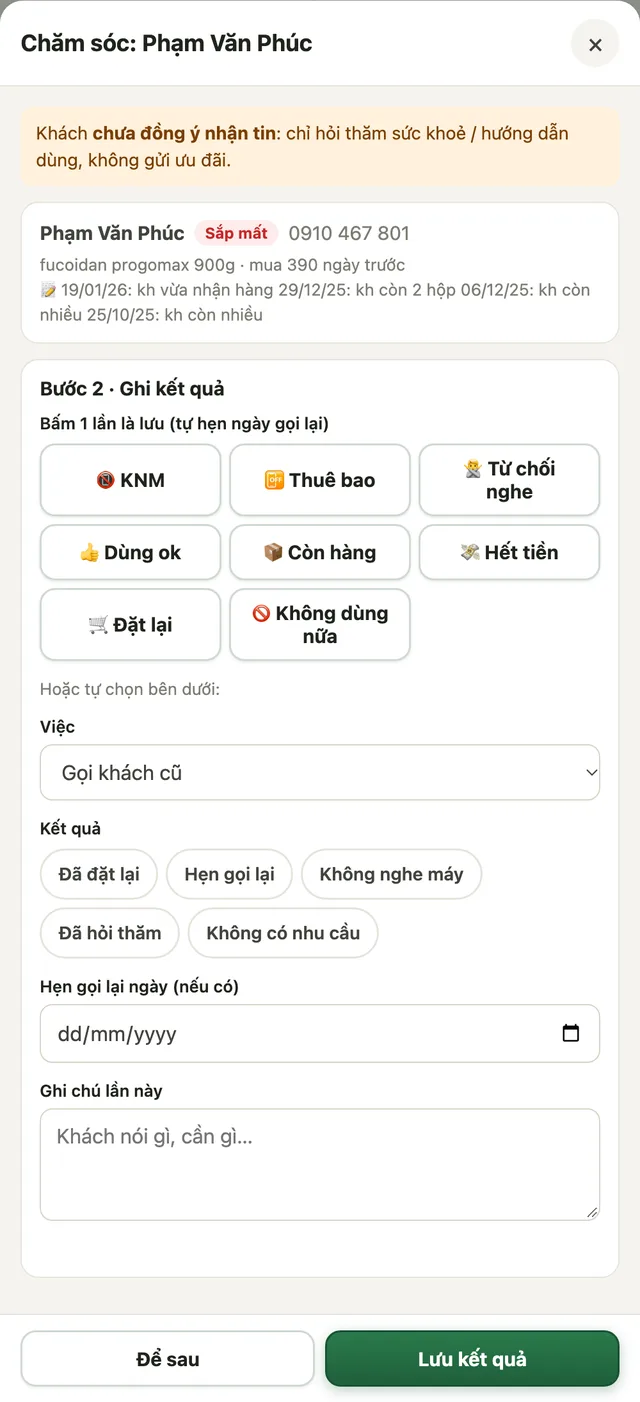
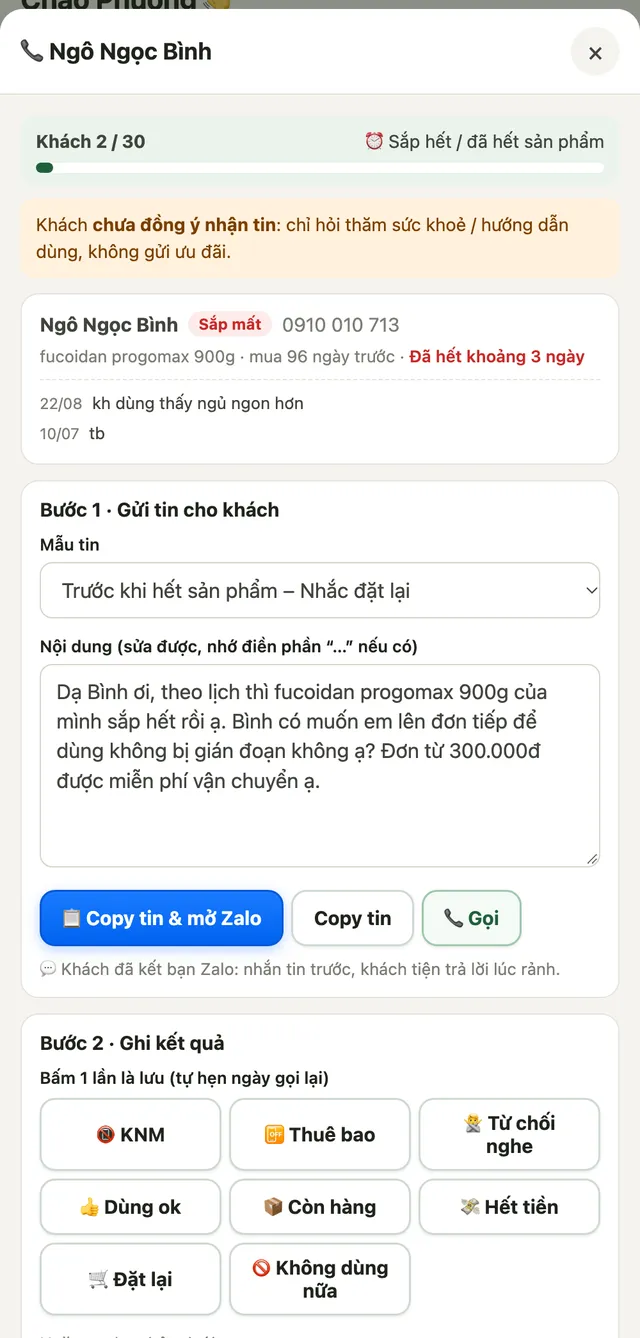
CRM tab Hôm nay gọn: thanh mục tiêu, gọi lần lượt từng khách, nhóm thu gọn + dòng gọn, tối đa 30 khách/ngày

diff --git a/crm/app.js b/crm/app.js
@@ -12,7 +12,8 @@
     runout: { icon: '⏰', title: 'Sắp hết / đã hết sản phẩm', tip: 'nhắc đặt lại, đơn từ 300K được freeship', tpl: 'hết' },
     d14: { icon: '💬', title: 'Xin cảm nhận', tip: '14 ngày sau khi nhận hàng', tpl: '14' },
     d30: { icon: '🌿', title: 'Giới thiệu sản phẩm phù hợp', tip: '30 ngày sau khi nhận hàng', tpl: '30' },
-    winback: { icon: '💌', title: 'Mời quay lại', tip: '60 ngày sau khi nhận hàng, chưa mua lại', tpl: '60' }
+    winback: { icon: '💌', title: 'Mời quay lại', tip: '60 ngày sau khi nhận hàng, chưa mua lại', tpl: '60' },
+    old: { icon: '🔁', title: 'Khách cũ lâu chưa gọi', tip: 'quá 30 ngày chưa phản hồi, khách chi nhiều lên trước', tpl: '60' }
   };
   var TASK_ORDER = ['callback', 'd1', 'runout', 'd14', 'd30', 'winback'];
   var TASK_LOG = { callback: 'Gọi lại theo hẹn', d1: 'Hỏi nhận hàng', runout: 'Nhắc đặt lại', d14: 'Xin cảm nhận', d30: 'Giới thiệu sản phẩm', winback: 'Mời quay lại', old: 'Gọi khách cũ', other: 'Chăm sóc' };
@@ -364,7 +365,7 @@
   }
   function navBadges() {
     var fb = $('#fbBtn'); if (fb) { var fd = $('.dot', fb); if (fd) fd.remove(); if (lvl() >= 2 && S.d.fbNew) fb.insertAdjacentHTML('beforeend', '<span class="dot">' + S.d.fbNew + '</span>'); }
-    var ld = leadsDue().length, n = { 'hom-nay': newOrders().length + tasksShown().length + ld, 'don-hang': newOrders().length, 'tiem-nang': ld };
+    var ld = leadsDue().length, n = { 'hom-nay': newOrders().length + dayQueue().list.length + ld, 'don-hang': newOrders().length, 'tiem-nang': ld };
     $$('.nav a').forEach(function (a) {
       var v = a.getAttribute('data-v'), d = $('.dot', a); if (d) d.remove();
       if (n[v]) a.insertAdjacentHTML('beforeend', '<span class="dot">' + (n[v] > 99 ? '99+' : n[v]) + '</span>');
@@ -469,45 +470,41 @@
     var t0 = today(), doneToday = S.d.log.filter(function (l) { return l.time >= t0 && l.what !== 'Cài đặt' && l.what !== 'Nhân sự'; }).sort(function (a, b) { return b.time - a.time; });
     var h = '<div class="page-head"><h1>Chào ' + esc(S.user.name) + ' 👋</h1><div class="grow"></div>' +
       (lvl() >= 2 ? '<label class="switch"><input type="checkbox" id="mine"' + (S.mine ? ' checked' : '') + '> Chỉ khách của tôi</label>' : '') + '</div>';
-    h += '<div class="kpis">' +
-      kpi('Đơn mới cần xác nhận', no.length, no.length ? 'warn' : 'good', '#don-hang') +
-      kpi('Khách cần chăm sóc', ts.length + Math.min(OLD_PER_DAY, od.length), ts.length + od.length ? 'warn' : 'good') +
-      kpi('Tiềm năng cần liên hệ', ld.length, ld.length ? 'bad' : 'good', '#tiem-nang') +
-      kpi('Đã làm hôm nay', doneToday.length, 'good') + myGoalKpi();
+    var q = dayQueue(), total = q.list.length + q.done, pc = total ? Math.round(q.done * 100 / total) : 100;
+    h += '<section class="hero"><div class="hero-t"><b>' + (q.list.length ? 'Hôm nay: ' + q.list.length + ' khách cần chăm sóc' : '🎉 Đã xong việc chăm sóc hôm nay') + '</b><span>đã xong ' + q.done + '</span></div>' +
+      '<div class="bar"><i style="width:' + pc + '%"></i></div>' +
+      (q.list.length ? '<button class="btn pri lg block" data-flow>▶ Bắt đầu gọi lần lượt</button>' : '') +
+      (q.rest ? '<p class="small muted" style="margin:8px 0 0">Còn ' + q.rest + ' khách để các ngày sau (tối đa ' + dayLimit() + ' khách/ngày, đổi ở <a href="#cai-dat">Cài đặt</a>).</p>' : '') + '</section>';
+    h += '<div class="minis">' + mini('🧾 Đơn mới', no.length, '#don-hang', no.length ? 'warn' : '') + mini('🙋 Tiềm năng', ld.length, '#tiem-nang', ld.length ? 'bad' : '') + mini('✅ Đã làm', doneToday.length, '', '') + miniGoal() + '</div>';
     if (lvl() >= 2) {
       var m = monthStats();
-      h += kpi('Doanh thu tháng ' + m.month, moneyShort(m.revenue), '', '', m.orders + ' đơn · ' + (m.prev ? (m.revenue >= m.prev ? '▲ ' : '▼ ') + 'tháng trước ' + moneyShort(m.prev) : 'chưa có tháng trước')) +
-        kpi('Khách mới tháng ' + m.month, m.newCus, '', '', m.returning + ' khách mua lại');
+      h += '<div class="kpis">' + kpi('Doanh thu tháng ' + m.month, moneyShort(m.revenue), '', '', m.orders + ' đơn · ' + (m.prev ? (m.revenue >= m.prev ? '▲ ' : '▼ ') + 'tháng trước ' + moneyShort(m.prev) : 'chưa có tháng trước')) +
+        kpi('Khách mới tháng ' + m.month, m.newCus, '', '', m.returning + ' khách mua lại') + '</div>';
     }
-    h += '</div>';
 
-    h += legend(null);
     if (lvl() >= 2) h += waitingBlock();
-    h += '<section class="section"><div class="section-h"><h2>1⃣ Đơn mới – gọi khách xác nhận</h2>' + (no.length ? '<span class="count">' + no.length + '</span>' : '') + '<span class="tip">gọi xong bấm “Xác nhận”</span></div>' +
-      (no.length ? '<div class="list cols">' + no.map(function (o) { return orderCard(o, true); }).join('') + '</div>' : empty('Không có đơn mới 🎉')) +
+    if (no.length || up.length) h += '<section class="section"><div class="section-h"><h2>1⃣ Đơn mới – gọi khách xác nhận</h2>' + (no.length ? '<span class="count">' + no.length + '</span>' : '') + '<span class="tip">gọi xong bấm “Xác nhận”</span></div>' +
+      (no.length ? '<div class="list cols">' + no.map(function (o) { return orderCard(o, true); }).join('') + '</div>' : '') +
       (up.length ? '<div class="section-h" style="margin-top:12px"><h3>💳 Chuyển khoản chưa nhận tiền</h3><span class="count">' + up.length + '</span><span class="tip">xem tài khoản VCB, tiền về thì mở đơn bấm “Xác nhận đã nhận tiền”</span></div>' +
         '<div class="list cols">' + up.map(function (o) { return orderCard(o, false); }).join('') + '</div>' : '') + '</section>';
 
-    h += '<section class="section"><div class="section-h"><h2>2⃣ Chăm sóc khách</h2>' + (ts.length ? '<span class="count">' + ts.length + '</span>' : '') + '<span class="tip">bấm “Chăm sóc” → gửi tin mẫu → chọn kết quả</span></div>';
-    if (!ts.length && !od.length) h += empty(lvl() >= 2 && S.mine && tasksAll().length ? 'Khách của bạn đã chăm sóc xong. Tắt “Chỉ khách của tôi” để xem các khách khác.' : 'Hôm nay không có khách đến lịch chăm sóc 🎉');
-    TASK_ORDER.forEach(function (k) {
-      var arr = ts.filter(function (c) { return c.task.type === k; }); if (!arr.length) return;
-      arr.sort(function (a, b) { return (b.task.late || 0) - (a.task.late || 0) || b.spent - a.spent; });
-      h += '<div class="section-h" style="margin-top:12px"><h3>' + TASKS[k].icon + ' ' + TASKS[k].title + '</h3><span class="count">' + arr.length + '</span><span class="tip">' + TASKS[k].tip + '</span></div>' +
-        '<div class="list cols">' + arr.map(function (c) { return custCard(c, true); }).join('') + '</div>';
+    h += '<section class="section"><div class="section-h"><h2>2⃣ Chăm sóc khách</h2>' + (q.list.length ? '<span class="count">' + q.list.length + '</span>' : '') + '<span class="tip">bấm vào nhóm để mở danh sách</span></div>';
+    if (!q.list.length) h += empty(lvl() >= 2 && S.mine && tasksAll().length ? 'Khách của bạn đã chăm sóc xong. Tắt “Chỉ khách của tôi” để xem các khách khác.' : 'Hôm nay không còn khách cần chăm sóc 🎉');
+    GROUP_ORDER.forEach(function (k) {
+      var arr = q.list.filter(function (c) { return taskKey(c) === k; }); if (!arr.length) return;
+      var late = arr.filter(function (c) { return c.task && c.task.late && k !== 'callback' && k !== 'runout'; }).length;
+      h += '<details class="grp" data-grp="' + k + '"' + (S.f.gopen && S.f.gopen[k] ? ' open' : '') + '><summary><span class="g-t">' + TASKS[k].icon + ' ' + TASKS[k].title + '</span><span class="count">' + arr.length + '</span>' + (late ? '<span class="g-late">⏳ ' + late + ' trễ</span>' : '') + '<span class="g-tip">' + TASKS[k].tip + '</span></summary>' +
+        '<div class="rows">' + arr.map(rowCard).join('') + '</div></details>';
     });
-    if (od.length) h += '<div class="section-h" style="margin-top:12px"><h3>🔁 Khách cũ lâu chưa gọi</h3><span class="count">' + Math.min(OLD_PER_DAY, od.length) + '</span><span class="tip">quá ' + OLD_DAYS + ' ngày chưa phản hồi, ưu tiên khách chi nhiều · còn ' + od.length + ' khách</span></div>' +
-      '<div class="list cols">' + od.slice(0, OLD_PER_DAY).map(function (c) { return custCard(c, true); }).join('') + '</div>' +
-      (od.length > OLD_PER_DAY ? '<p class="small muted">Gọi xong ' + OLD_PER_DAY + ' khách này, danh sách tự đưa lên khách tiếp theo. Xem hết ở <a href="#khach-hang" data-myold>Khách hàng → quá 30 ngày</a>.</p>' : '');
     h += '</section>';
 
     h += '<section class="section"><div class="section-h"><h2>3⃣ Khách tiềm năng cần liên hệ</h2>' + (ld.length ? '<span class="count">' + ld.length + '</span>' : '') + '<span class="tip">người hỏi mua nhưng chưa mua</span></div>' +
-      (ld.length ? '<div class="list cols">' + ld.map(leadCard).join('') + '</div>' : empty('Không có khách tiềm năng cần liên hệ 🎉')) +
+      (ld.length ? '<details class="grp" data-grp="leads"' + (S.f.gopen && S.f.gopen.leads ? ' open' : '') + '><summary><span class="g-t">🙋 Người hỏi cần liên hệ</span><span class="count">' + ld.length + '</span><span class="g-tip">mới hỏi, đến hẹn hoặc 3 ngày chưa liên hệ</span></summary><div class="list cols" style="padding:10px">' + ld.map(leadCard).join('') + '</div></details>' : empty('Không có khách tiềm năng cần liên hệ 🎉')) +
       '<button class="btn" data-newlead style="margin-top:10px">＋ Thêm khách tiềm năng</button></section>';
 
     if (isPoolStaff()) h += poolBlock();
-    if (doneToday.length) h += '<section class="section"><div class="section-h"><h2>✅ Đã làm hôm nay</h2><span class="count">' + doneToday.length + '</span></div><div class="box timeline">' +
-      doneToday.slice(0, 40).map(logItem).join('') + '</div></section>';
+    if (doneToday.length) h += '<section class="section"><details class="grp" data-grp="done"' + (S.f.gopen && S.f.gopen.done ? ' open' : '') + '><summary><span class="g-t">✅ Đã làm hôm nay</span><span class="count">' + doneToday.length + '</span></summary><div class="timeline" style="padding:12px">' +
+      doneToday.slice(0, 40).map(logItem).join('') + '</div></details></section>';
     return h;
   }
   /** Quản lý: khách / tiềm năng chưa có người phụ trách → giao ngay tại chỗ. */
@@ -530,6 +527,40 @@
     if (!cs.length && !ls.length) return '';
     return '<section class="section"><div class="section-h"><h2>🧺 Kho chung – chưa ai nhận</h2><span class="count">' + (cs.length + ls.length) + '</span><span class="tip">bấm “Nhận khách” để thành khách của bạn</span></div><div class="list cols">' +
       cs.slice(0, 10).map(function (c) { return custCard(c, false); }).join('') + ls.slice(0, 10).map(leadCard).join('') + '</div></section>';
+  }
+  /* ---------- danh sách việc trong ngày: xếp theo mức quan trọng, giới hạn số khách/ngày (phần còn lại để mai, có “trễ N ngày”) */
+  var DAY_LIMIT_DEF = 30, GROUP_ORDER = ['callback', 'd1', 'runout', 'd14', 'd30', 'winback', 'old'];
+  var PRIO = { callback: 0, d1: 1, runout: 2, d14: 4, d30: 5, winback: 6, old: 7 };
+  function dayLimit() { var n = parseInt(store('crm_daylimit') || '', 10); return n > 0 ? n : DAY_LIMIT_DEF; }
+  function taskKey(c) { return c.task ? c.task.type : 'old'; }
+  function prioOf(c) { var k = taskKey(c); return c.task && c.task.late && k !== 'callback' && k !== 'runout' ? 3 : PRIO[k]; }
+  function isCareLog(l) { if (!CARE_WHAT) { CARE_WHAT = {}; Object.keys(TASK_LOG).forEach(function (k) { CARE_WHAT[TASK_LOG[k]] = 1; }); } return !!CARE_WHAT[l.what]; }
+  function doneCount() { var t0 = today(), o = {}; S.d.log.forEach(function (l) { if (l.time >= t0 && l.by === S.user.name && isCareLog(l)) o[String(l.ref).replace(/^'/, '')] = 1; }); return Object.keys(o).length; }
+  function dayQueue() {
+    var all = tasksShown().concat(oldDueAll());
+    all.sort(function (a, b) { return prioOf(a) - prioOf(b) || ((b.task && b.task.late) || 0) - ((a.task && a.task.late) || 0) || b.spent - a.spent; });
+    var done = doneCount(), room = Math.max(0, dayLimit() - done);
+    return { list: all.slice(0, room), rest: Math.max(0, all.length - room), done: done };
+  }
+  function mini(label, n, href, cls) { return '<' + (href ? 'a href="' + href + '"' : 'div') + ' class="mini ' + (cls || '') + '"><span>' + label + '</span><b>' + n + '</b></' + (href ? 'a' : 'div') + '>'; }
+  function miniGoal() {
+    var mk = monthOf(Date.now()), t = targetOf(S.user.name, mk), sales = perf(S.user.name, monthRange(mk)).sales;
+    return t && t.amount ? mini('🎯 Mục tiêu', pct(sales, t.amount) + '%', '#bao-cao', pct(sales, t.amount) >= 100 ? 'good' : '') : mini('🎯 Mục tiêu', 'Chưa đặt', '#bao-cao', 'warn');
+  }
+  /** 1 dòng gọn cho danh sách việc: tên · việc cần làm · nút gọi / KNM / chăm sóc. */
+  function rowCard(c) {
+    var cat = custCat(c), k = taskKey(c);
+    return '<div class="rw click tinted" data-cust="' + c.phone + '"' + catAttr(cat) + '><div class="rw-m"><div class="rw-1"><b>' + esc(c.name || 'Khách') + '</b>' + (c.zalo ? '<span class="zl on">💬</span>' : '') + groupTag(c.group) + '<span class="end">' + moneyShort(c.spent) + '</span></div>' +
+      '<div class="rw-2">' + (c.task ? taskLine(c) : replyOf(c).days + ' ngày chưa phản hồi') + (c.products.length ? ' · ' + esc(shortProducts(c.products, 1)) : '') + '</div></div>' +
+      '<div class="rw-a"><a class="btn" href="tel:' + c.phone + '" aria-label="Gọi">📞</a><button class="btn" data-quick="' + c.phone + '|knm|' + k + '" title="Không nghe máy: 2 ngày sau tự nhắc" aria-label="KNM">📵</button><button class="btn pri" data-care="' + c.phone + '" data-task="' + k + '" aria-label="Chăm sóc">💬</button></div></div>';
+  }
+  /* ---------- gọi lần lượt: mỗi lần 1 khách, ghi kết quả xong tự sang khách tiếp theo */
+  function startFlow() { S.flow = { skip: {} }; nextFlow(); }
+  function nextFlow() {
+    if (!S.flow) return;
+    var q = dayQueue(), list = q.list.filter(function (c) { return !S.flow.skip[c.phone]; });
+    if (!list.length) { var sk = Object.keys(S.flow.skip).length; S.flow = null; render(); toast(sk ? 'Hết lượt. Còn ' + sk + ' khách bạn để sau, mở lại “Bắt đầu gọi” để gọi tiếp.' : 'Xong hết danh sách hôm nay 🎉 Cảm ơn bạn!'); return; }
+    openCare(list[0].phone, taskKey(list[0]), { flow: true, n: q.done + 1, total: q.done + q.list.length });
   }
   function myGoalKpi() {
     var mk = monthOf(Date.now()), t = targetOf(S.user.name, mk), sales = perf(S.user.name, monthRange(mk)).sales;
@@ -655,6 +686,10 @@
     });
     return out;
   }
+  function recentHist(c, n) { // vài lần chăm sóc gần nhất (CRM + ghi chú cũ) để nhìn nhanh trước khi gọi
+    return logOf(c.phone).filter(isCareLog).map(function (l) { return { time: l.time, text: (l.result || '') + (l.note ? ': ' + l.note : '') }; })
+      .concat(noteEntries(c.note)).sort(function (a, b) { return (b.time || 0) - (a.time || 0); }).slice(0, n);
+  }
   function histHtml(c, logs) {
     var items = logs.map(function (l) { return { time: l.time, html: logItem(l) }; }).concat(noteEntries(c.note).map(function (e) {
       return { time: e.time, html: '<div class="it old"><b>' + (/(^|[^a-zà-ỹ])(knm|tb)([^a-zà-ỹ]|$)|thuê bao|không nghe|k nghe|tắt máy|từ chối nghe/i.test(e.text) ? '📵' : '📒') + '</b> ' + esc(e.text) + '<small>' + fDate(e.time) + ' · ghi chú</small></div>' };
@@ -683,13 +718,16 @@
     var name = (c.name || '').replace(/\(.*?\)/g, ' ').trim().split(/\s+/).pop() || 'anh/chị';
     return String(text).replace(/\[Tên\]/gi, name).replace(/\[Sản phẩm\]/gi, shortProducts(c.products, 2) || 'sản phẩm');
   }
-  function openCare(phone, type) {
-    var c = cust(phone); if (!c) return;
+  function openCare(phone, type, opt) {
+    var c = cust(phone); if (!c) return; opt = opt || {};
     type = type || (c.task ? c.task.type : 'other');
     var ti = templateFor(type), tp = S.d.templates;
-    var body = (c.consent ? '' : '<div class="notice">Khách <b>chưa đồng ý nhận tin</b>: chỉ hỏi thăm sức khoẻ / hướng dẫn dùng, không gửi ưu đãi.</div>') +
+    var hist = recentHist(c, 3);
+    var body = (opt.flow ? '<div class="flow-h"><div><b>Khách ' + opt.n + ' / ' + opt.total + '</b><span>' + (TASKS[type] ? TASKS[type].icon + ' ' + TASKS[type].title : 'Chăm sóc') + '</span></div><div class="bar"><i style="width:' + Math.round((opt.n - 1) * 100 / Math.max(1, opt.total)) + '%"></i></div></div>' : '') +
+      (c.consent ? '' : '<div class="notice">Khách <b>chưa đồng ý nhận tin</b>: chỉ hỏi thăm sức khoẻ / hướng dẫn dùng, không gửi ưu đãi.</div>') +
       '<div class="box"><div class="r1" style="display:flex;gap:8px;align-items:center;flex-wrap:wrap"><b>' + esc(c.name) + '</b> ' + groupTag(c.group) + ' <span class="muted">' + fPhone(c.phone) + '</span></div>' +
-      '<div class="small muted" style="margin-top:4px">' + esc(shortProducts(c.products, 3)) + ' · mua ' + daysAgo(c.last) + (c.note ? '<br>📝 ' + esc(c.note.replace(/— Nhật ký cũ \([^)]*\) —\n?/g, '').trim()) : '') + '</div></div>' +
+      '<div class="small muted" style="margin-top:4px">' + esc(shortProducts(c.products, 3)) + ' · mua ' + daysAgo(c.last) + (c.task ? ' · ' + taskLine(c) : '') + '</div>' +
+      (hist.length ? '<div class="mini-hist">' + hist.map(function (x) { return '<div><span>' + fDate(x.time).slice(0, 5) + '</span> ' + esc(x.text) + '</div>'; }).join('') + '</div>' : '') + '</div>' +
       '<div class="box"><h3>Bước 1 · Gửi tin cho khách</h3>' +
       '<label class="f"><span>Mẫu tin</span><select id="kTpl"><option value="-1">– Tự viết –</option>' + tp.map(function (t, i) { return '<option value="' + i + '"' + (i === ti ? ' selected' : '') + '>' + esc(t[0] + (t[1] ? ' – ' + t[1] : '')) + '</option>'; }).join('') + '</select></label>' +
       '<label class="f"><span>Nội dung (sửa được, nhớ điền phần “…” nếu có)</span><textarea id="kMsg" rows="6">' + esc(ti >= 0 ? fillTpl(tp[ti][2], c) : '') + '</textarea></label>' +
@@ -702,7 +740,11 @@
       '<div class="f"><span style="display:block;font-size:13px;font-weight:600;margin-bottom:6px;color:var(--ink)">Kết quả</span><div class="radios">' + RESULTS.map(function (r, i) { return '<label><input type="radio" name="kRes" value="' + esc(r) + '"' + '><span>' + esc(r) + '</span></label>'; }).join('') + '</div></div>' +
       '<label class="f" id="kCbWrap"><span>Hẹn gọi lại ngày (nếu có)</span><input type="date" id="kCb" min="' + isoDate(Date.now()) + '"></label>' +
       '<label class="f"><span>Ghi chú lần này</span><textarea id="kNote" rows="2" placeholder="Khách nói gì, cần gì…"></textarea></label><p class="err" id="kErr"></p></div>';
-    var m = modal('Chăm sóc: ' + esc(c.name), body, '<button class="btn" data-close>Để sau</button><button class="btn pri" id="kSave">Lưu kết quả</button>');
+    var m = modal((opt.flow ? '📞 ' : 'Chăm sóc: ') + esc(c.name), body, opt.flow ? '<button class="btn" id="kSkip">⏭ Để sau</button><button class="btn pri" id="kSave">Lưu & sang khách tiếp</button>' : '<button class="btn" data-close>Để sau</button><button class="btn pri" id="kSave">Lưu kết quả</button>');
+    if (opt.flow) {
+      m.addEventListener('click', function (e) { if (e.target === m || e.target.closest('[data-close]')) S.flow = null; }, true); // bấm ✕ = dừng gọi lần lượt
+      $('#kSkip', m).onclick = function () { if (S.flow) S.flow.skip[c.phone] = 1; closeModal(true); nextFlow(); };
+    }
     var msg = $('#kMsg', m);
     $('#kTpl', m).onchange = function () { var i = +this.value; msg.value = i >= 0 ? fillTpl(tp[i][2], c) : ''; };
     $('#kCopy', m).onclick = function () { copy(msg.value).then(function () { toast('Đã copy tin nhắn'); }); };
@@ -714,7 +756,7 @@
       if (!res) { err.textContent = 'Bạn chọn kết quả giúp nhé.'; return; }
       var p = { phone: c.phone, task: $('#kTask', m).value, result: res.value, note: $('#kNote', m).value.trim(), callback: $('#kCb', m).value };
       var btn = this; btn.disabled = true; btn.textContent = 'Đang lưu…';
-      saveCare(c, p).then(function () { closeModal(); toast('Đã lưu kết quả chăm sóc ✓'); navBadges(); render(); }, function (e) { btn.disabled = false; btn.textContent = 'Lưu kết quả'; err.textContent = e.message; });
+      saveCare(c, p).then(function () { closeModal(); toast('Đã lưu kết quả chăm sóc ✓'); navBadges(); render(); if (S.flow) setTimeout(nextFlow, 200); }, function (e) { btn.disabled = false; btn.textContent = 'Lưu kết quả'; err.textContent = e.message; });
     };
   }
   function saveCare(c, p) { sendOp('care', p); return Promise.resolve(); } // lưu ngay trên màn hình, gửi ngầm (xem hàng chờ gửi)
@@ -727,7 +769,7 @@
     saveCare(c, p).then(function () {
       if ($('.modal')) closeModal();
       toast('Đã ghi “' + q.n + '”' + (q.d ? ' · ' + q.d + ' ngày sau tự nhắc gọi lại' : '') + ' ✓'); navBadges(); render();
-      if (q.order) openNewOrder(c.phone);
+      if (q.order) { S.flow = null; openNewOrder(c.phone); } else if (S.flow) setTimeout(nextFlow, 200);
     }, function (e) { if (btn) { btn.disabled = false; btn.textContent = txt; } if (errEl) errEl.textContent = e.message; else toast(e.message, true); });
   }
 
@@ -1676,6 +1718,8 @@
   function viewSettings() {
     var h = '<div class="page-head"><h1>Cài đặt</h1></div>';
     h += '<div class="box"><h3>Tài khoản</h3><p style="margin:0 0 10px">' + esc(S.user.name) + ' · ' + esc(S.user.email) + ' · <b>' + esc(S.user.role) + '</b></p><button class="btn danger" id="logout">Đăng xuất</button></div>';
+    h += '<div class="box"><h3>🎯 Số khách chăm sóc mỗi ngày</h3><p class="small muted" style="margin:0 0 8px">Tab Hôm nay chỉ đưa ra tối đa bấy nhiêu khách mỗi ngày (khách quan trọng trước). Khách chưa tới lượt tự dời sang hôm sau. Cài trên máy này.</p>' +
+      '<div style="display:flex;gap:8px;align-items:center"><input type="number" id="dayLim" min="5" max="200" value="' + dayLimit() + '" style="max-width:110px"><button class="btn" id="dayLimSave">Lưu</button></div></div>';
     h += '<div class="box"><h3>📲 Thông báo Telegram riêng</h3>' + (S.user.tg
       ? '<p style="margin:0 0 10px">✅ Đã kết nối. Bạn nhận riêng: đơn mới của khách mình phụ trách, khách tiềm năng mới được giao, danh sách việc lúc 8h sáng.</p><button class="btn ghost" id="tgOff">Ngắt kết nối</button>'
       : '<p style="margin:0 0 10px">Nhận thông báo về khách <b>của riêng bạn</b> qua Telegram. Làm 1 lần, mất 30 giây:</p><ol style="margin:0 0 10px;padding-left:20px"><li>Bấm <b>“Kết nối Telegram”</b>.</li><li>Bấm <b>“Mở Telegram”</b> → trong Telegram bấm <b>Start / Bắt đầu</b>.</li><li>Quay lại đây bấm <b>“Tôi đã bấm Start”</b>.</li></ol><div class="steps" id="tgSteps"><button class="btn pri" id="tgLink">Kết nối Telegram</button></div>') + '</div>';
@@ -1744,6 +1788,7 @@
     return h;
   }
   function bindSettings() {
+    if ($('#dayLimSave')) $('#dayLimSave').onclick = function () { var n = Math.max(5, Math.min(200, parseInt($('#dayLim').value, 10) || DAY_LIMIT_DEF)); store('crm_daylimit', String(n)); toast('Mỗi ngày tối đa ' + n + ' khách ✓'); navBadges(); };
     $('#logout').onclick = function () { if (confirm('Đăng xuất khỏi CRM?')) logout(); };
     var syncTags = function () { $$('#tagRows [data-ti]').forEach(function (r) { var i = +r.getAttribute('data-ti'); $$('[data-tk]', r).forEach(function (x) { S.f.tags[i][x.getAttribute('data-tk')] = x.value; }); }); };
     if ($('#tagRows')) $('#tagRows').addEventListener('input', syncTags);
@@ -1831,11 +1876,13 @@
   function refreshBehind() { render(); clearTimeout(bgTimer); bgTimer = setTimeout(function () { if (!$('.modal')) load(true); }, 1500); }
 
   /* ================================================================ sự kiện chung */
+  document.addEventListener('toggle', function (e) { var d = e.target; if (d && d.matches && d.matches('details[data-grp]')) { S.f.gopen = S.f.gopen || {}; S.f.gopen[d.getAttribute('data-grp')] = d.open; } }, true);
   document.addEventListener('click', function (e) {
-    var t = e.target.closest('[data-zalo],[data-quick],[data-care],[data-next],[data-neworder],[data-cf],[data-os],[data-tf],[data-cat],[data-addtag],[data-deltag],[data-claim],[data-mon],[data-bcdt],[data-srcadd],[data-srcedit],[data-srcsync],[data-srcdel],[data-adsedit],[data-adssync],[data-who],[data-target],[data-myold],[data-more],[data-add],[data-rm],[data-consult],[data-leadorder],[data-newlead],[data-editlead],[data-cust],[data-order],[data-lead]');
+    var t = e.target.closest('[data-flow],[data-zalo],[data-quick],[data-care],[data-next],[data-neworder],[data-cf],[data-os],[data-tf],[data-cat],[data-addtag],[data-deltag],[data-claim],[data-mon],[data-bcdt],[data-srcadd],[data-srcedit],[data-srcsync],[data-srcdel],[data-adsedit],[data-adssync],[data-who],[data-target],[data-myold],[data-more],[data-add],[data-rm],[data-consult],[data-leadorder],[data-newlead],[data-editlead],[data-cust],[data-order],[data-lead]');
     if (!t || !S.d) return;
     if (e.target.closest('a[href]') && !t.hasAttribute('data-myold')) return; // nút gọi / Zalo bên trong thẻ
     var a = function (k) { return t.getAttribute(k); };
+    if (t.hasAttribute('data-flow')) { startFlow(); return; }
     if (t.hasAttribute('data-zalo')) { e.stopPropagation(); var zc = cust(a('data-zalo')); if (zc) { setZalo(zc, true); var zb = $('.modal [data-zalo]'); if (zb) zb.outerHTML = zaloTag(zc); } return; }
     if (t.hasAttribute('data-quick')) { e.stopPropagation(); var qk = a('data-quick').split('|'), qc = cust(qk[0]); if (qc) quickCare(qc, qk[1], qk[2], '', t); return; }
     if (t.hasAttribute('data-care')) { e.stopPropagation(); openCare(a('data-care'), a('data-task')); return; }

diff --git a/crm/app.css b/crm/app.css
@@ -375,3 +375,32 @@ table.bcdt tr.tot td { font-weight: 700; background: var(--primary-light); }
 .zl.add { background: transparent; color: var(--muted); border: 1px dashed var(--line); cursor: pointer; font-family: inherit; }
 .zl.add:hover { color: #0068ff; border-color: #0068ff; }
 .link { background: none; border: 0; color: var(--primary); padding: 4px 0; cursor: pointer; text-decoration: underline; font-family: inherit; }
+
+/* tab Hôm nay gọn: thanh mục tiêu + nhóm thu gọn + dòng gọn + gọi lần lượt */
+.hero { background: var(--card); border-radius: 16px; padding: 16px; margin: 0 0 12px; box-shadow: 0 1px 3px rgba(0,0,0,.06); }
+.hero-t { display: flex; justify-content: space-between; align-items: baseline; gap: 8px; flex-wrap: wrap; margin-bottom: 8px; }
+.hero-t b { font-size: 17px; color: var(--ink); } .hero-t span { color: var(--muted); font-size: 14px; }
+.bar { height: 8px; background: var(--bg); border-radius: 99px; overflow: hidden; margin-bottom: 12px; }
+.bar i { display: block; height: 100%; background: var(--primary); border-radius: 99px; transition: width .3s; }
+.minis { display: grid; grid-template-columns: repeat(4, 1fr); gap: 8px; margin: 0 0 14px; }
+@media (max-width: 520px) { .minis { grid-template-columns: repeat(2, 1fr); } }
+.mini { background: var(--card); border-radius: 12px; padding: 8px 10px; display: flex; justify-content: space-between; align-items: center; gap: 6px; color: var(--text); text-decoration: none; font-size: 13px; box-shadow: 0 1px 2px rgba(0,0,0,.05); }
+.mini b { font-size: 16px; color: var(--ink); } .mini.warn b { color: #c26a00; } .mini.bad b { color: var(--red); } .mini.good b { color: var(--primary); }
+details.grp { background: var(--card); border-radius: 14px; margin: 0 0 8px; box-shadow: 0 1px 2px rgba(0,0,0,.05); overflow: hidden; }
+details.grp > summary { list-style: none; cursor: pointer; padding: 12px 40px 12px 14px; display: flex; align-items: center; gap: 4px 8px; flex-wrap: wrap; position: relative; }
+details.grp > summary::-webkit-details-marker { display: none; }
+details.grp > summary::after { content: '▾'; position: absolute; right: 14px; top: 12px; font-size: 18px; color: var(--muted); transition: transform .2s; }
+details.grp[open] > summary::after { transform: rotate(180deg); }
+details.grp .g-t { font-weight: 700; color: var(--ink); } .g-late { font-size: 12px; font-weight: 700; color: var(--red); }
+details.grp .g-tip { flex-basis: 100%; font-size: 12px; color: var(--muted); }
+.rows { border-top: 1px solid var(--line); }
+.rw { display: flex; align-items: center; gap: 8px; padding: 10px 12px; border-bottom: 1px solid var(--line); cursor: pointer; }
+.rw:last-child { border-bottom: 0; }
+.rw-m { flex: 1; min-width: 0; }
+.rw-1 { display: flex; align-items: center; gap: 6px; flex-wrap: wrap; } .rw-1 b { color: var(--ink); } .rw-1 .end { margin-left: auto; font-size: 13px; font-weight: 700; }
+.rw-2 { font-size: 13px; color: var(--muted); margin-top: 2px; overflow: hidden; text-overflow: ellipsis; display: -webkit-box; -webkit-line-clamp: 2; -webkit-box-orient: vertical; }
+.rw-a { display: flex; gap: 6px; flex: none; } .rw-a .btn { width: 40px; height: 40px; padding: 0; justify-content: center; font-size: 17px; }
+.flow-h { background: var(--primary-light, #e7f3ec); border-radius: 12px; padding: 10px 12px; margin: 0 0 10px; }
+.flow-h > div:first-child { display: flex; justify-content: space-between; gap: 8px; margin-bottom: 6px; font-size: 14px; } .flow-h .bar { margin: 0; background: #fff; }
+.mini-hist { margin-top: 8px; border-top: 1px dashed var(--line); padding-top: 6px; font-size: 13px; color: var(--text); }
+.mini-hist div { padding: 2px 0; } .mini-hist span { color: var(--muted); font-size: 12px; margin-right: 4px; }

diff --git a/guide/phuong.md b/guide/phuong.md
@@ -31,28 +31,29 @@ Chào Phương! Toàn bộ khách, đơn hàng và **ghi chú cũ** trong file c
 
 > Lần đầu mở CRM sẽ hơi lâu vì máy tải toàn bộ khách của em. **Từ lần thứ hai CRM hiện ngay.**
 
-## 2. Mỗi sáng: mở tab Hôm nay
+## 2. Mỗi sáng: mở tab Hôm nay, bấm “Bắt đầu gọi lần lượt”
 
-![Tab Hôm nay – mục Khách cũ lâu chưa gọi](/huong-dan/img/ph-old.webp)
+![Tab Hôm nay: thanh mục tiêu và các nhóm việc thu gọn](/huong-dan/img/ph-old.webp)
 
-Tab **Hôm nay** cho em biết **hôm nay gọi ai**, em không phải cuộn file hay nhớ trong đầu nữa:
+Trên cùng là **số khách cần chăm sóc hôm nay** và **thanh tiến độ** (đã xong bao nhiêu). Mỗi ngày CRM đưa ra tối đa **30 khách**, khách quan trọng trước: hẹn gọi lại → hỏi nhận hàng → sắp hết hàng → việc bị trễ → các việc khác. Khách chưa tới lượt tự dời sang hôm sau, không mất.
 
-- **📞 Hẹn gọi lại**: khách em đã hẹn đến hôm nay, hoặc khách hôm trước không nghe máy.
-- **⏰ Sắp hết hàng**: khách sắp dùng hết, nên nhắc đặt lại.
-- **📦 / 💬 / 🌿**: khách mới mua: hỏi nhận hàng, xin cảm nhận, giới thiệu thêm.
-- **🔁 Khách cũ lâu chưa gọi**: mỗi ngày **15 khách cũ** đã hơn 30 ngày chưa nói chuyện, **khách chi nhiều nhất lên trước**. Gọi xong khách nào, danh sách tự đưa khách tiếp theo lên.
+Bên dưới, khách được chia **nhóm thu gọn** (bấm vào nhóm mới mở ra), mỗi khách 1 dòng với 3 nút **📞 Gọi · 📵 KNM · 💬 Chăm sóc**:
 
-Dòng đỏ **“… ngày chưa chăm sóc”** là số ngày từ lần cuối khách **có trả lời** (các lần knm không tính).
+- **📞 Hẹn gọi lại**: khách em đã hẹn, hoặc hôm trước không nghe máy.
+- **📦 Hỏi nhận hàng**: khách vừa nhận hàng (hoặc đã quá ngày giao dự kiến).
+- **⏰ Sắp hết hàng**: khách sắp dùng hết, nhắc đặt lại.
+- **💬 / 🌿 / 💌**: xin cảm nhận, giới thiệu thêm, mời quay lại.
+- **🔁 Khách cũ lâu chưa gọi**: hơn 30 ngày chưa nói chuyện, khách chi nhiều nhất lên trước.
 
-**💬 Zalo** = khách em **đã kết bạn Zalo**. Đây chính là dấu **(x)** em vẫn đánh sau tên trong file, CRM đã tự chuyển thành nhãn này. Khách chưa kết bạn có nút **➕ Đã kết bạn Zalo**: kết bạn xong em bấm 1 lần là được, máy cũng tự thêm **(x)** vào tên khách trong file Sheet của em.
+Dòng **⏳ trễ N ngày** là việc đã qua ngày nên làm (vd em nghỉ vài hôm), vẫn giữ lại để em không sót khách.
 
-## 3. Gọi khách và bấm 1 nút
+**💬 Zalo** = khách em **đã kết bạn Zalo** (chính là dấu **(x)** em vẫn đánh sau tên trong file). Khách chưa kết bạn: mở hồ sơ, bấm **➕ Đã kết bạn Zalo** khi kết bạn xong, máy tự thêm **(x)** vào tên trong file Sheet của em.
 
-- Bấm **📞 Gọi** ngay trên thẻ khách.
-- **Khách không nghe máy:** bấm **📵 KNM** ngay trên thẻ. Xong, **2 ngày sau** khách tự hiện lại ở *Hẹn gọi lại*.
-- **Khách nghe máy:** bấm **💬 Chăm sóc** rồi chọn 1 nút ở **Bước 2**:
+## 3. Gọi lần lượt: mỗi lần 1 khách
 
-![Các nút ghi kết quả 1 chạm](/huong-dan/img/ph-quick.webp)
+Bấm **▶ Bắt đầu gọi lần lượt**, CRM mở **từng khách một**: tên, sản phẩm, **2–3 lần chăm sóc gần nhất**, tin nhắn mẫu đã điền tên khách. Em gọi (hoặc nhắn Zalo), rồi **bấm 1 nút kết quả**, CRM **tự chuyển sang khách tiếp theo**. Khách chưa tiện gọi thì bấm **⏭ Để sau**. Bấm **✕** để dừng.
+
+![Gọi lần lượt: mỗi lần 1 khách, bấm kết quả là sang khách tiếp](/huong-dan/img/ph-quick.webp)
 
 | Nút | Máy ghi | Tự nhắc gọi lại |
 | --- | --- | --- |
@@ -62,14 +63,14 @@ Dòng đỏ **“… ngày chưa chăm sóc”** là số ngày từ lần cuố
 | 👍 **Dùng ok** | kh dùng ok | không hẹn |
 | 📦 **Còn hàng** | kh còn nhiều | sau 14 ngày |
 | 💸 **Hết tiền** | kh hết tiền, hẹn tháng sau | sau 30 ngày |
-| 🛒 **Đặt lại** | kh đặt lại | không hẹn |
+| 🛒 **Đặt lại** | kh đặt lại, mở luôn form tạo đơn | không hẹn |
 | 🚫 **Không dùng nữa** | kh không dùng nữa | không hẹn, không đưa vào danh sách khách cũ nữa |
-| 📦 **Đã nhận, đã HD dùng** *(chỉ hiện khi hỏi nhận hàng)* | kh đã nhận hàng, đã hướng dẫn dùng · máy ghi luôn ngày nhận hàng | không hẹn |
-| 🚚 **Chưa nhận hàng** *(chỉ hiện khi hỏi nhận hàng)* | kh chưa nhận được hàng | sau 2 ngày |
+| 📦 **Đã nhận, đã HD dùng** *(khi hỏi nhận hàng)* | kh đã nhận hàng · máy ghi luôn ngày nhận hàng | không hẹn |
+| 🚚 **Chưa nhận hàng** *(khi hỏi nhận hàng)* | kh chưa nhận được hàng | sau 2 ngày |
 
-Khách nói gì thêm (vd “bà ngủ ngon hơn”, “hẹn cuối tháng”) thì gõ vào **Ghi chú lần này** **trước** khi bấm nút, máy ghi kèm luôn. Muốn tự chọn ngày hẹn thì dùng phần **Hoặc tự chọn bên dưới**.
+Khách nói gì thêm (vd “bà ngủ ngon hơn”) thì gõ vào **Ghi chú lần này** **trước** khi bấm nút, máy ghi kèm. Khách **đã kết bạn Zalo** thì nên nhắn trước; khách **chưa kết bạn** thì gọi, gọi xong nhớ xin kết bạn.
 
-Bước 1 (gửi tin Zalo) có sẵn **tin nhắn mẫu** đã điền tên khách. Bấm **📋 Copy tin & mở Zalo**, dán vào khung chat là gửi được. Khách **đã kết bạn Zalo** thì nên nhắn trước; khách **chưa kết bạn** thì gọi, và gọi xong nhớ xin kết bạn để lần sau chăm dễ hơn.
+Không muốn gọi lần lượt thì mở nhóm, bấm **📵** ngay trên dòng khách (không nghe máy) hoặc **💬** để mở hộp chăm sóc của riêng khách đó.
 
 ## 4. Xem lại khách đã nói gì
 

diff --git a/guide/crm.md b/guide/crm.md
@@ -51,15 +51,16 @@ Từ đó bạn nhận riêng: **đơn mới của khách mình phụ trách**, 
 
 ![Tab Hôm nay trên điện thoại](/huong-dan/img/crm-today.webp)
 
-Phía trên là các ô số: đơn mới, khách cần chăm sóc, tiềm năng cần liên hệ, việc đã làm hôm nay, mục tiêu tháng của bạn. Bấm vào ô để mở đúng danh sách.
+- **Trên cùng:** số khách cần chăm sóc hôm nay, thanh tiến độ và nút **▶ Bắt đầu gọi lần lượt**. Mỗi ngày CRM đưa ra tối đa **30 khách** (đổi ở **Cài đặt → Số khách chăm sóc mỗi ngày**), khách quan trọng trước: hẹn gọi lại → hỏi nhận hàng → sắp hết hàng → việc bị trễ → các việc khác. Khách chưa tới lượt tự dời sang hôm sau.
+- **Ô nhỏ:** đơn mới, tiềm năng, việc đã làm, mục tiêu tháng. Bấm để mở đúng danh sách. Quản lý thấy thêm doanh thu và khách mới của tháng.
+- **1⃣ Đơn mới – gọi khách xác nhận** (chỉ hiện khi có), kèm **Chuyển khoản chưa nhận tiền**.
+- **2⃣ Chăm sóc khách:** chia nhóm theo loại việc (xem [bảng các loại việc](#cac-loai-viec-cham-soc)). Nhóm **thu gọn**, bấm vào mới mở. Mỗi khách 1 dòng với nút **📞 Gọi · 📵 KNM · 💬 Chăm sóc**.
+- **3⃣ Khách tiềm năng cần liên hệ.**
+- Cuối trang: **✅ Đã làm hôm nay** (bấm để mở).
 
-Bên dưới có 3 phần, làm từ trên xuống:
+### Gọi lần lượt
 
-1. **Đơn mới – gọi khách xác nhận.** Ngay dưới là **Chuyển khoản chưa nhận tiền**: các đơn đã xác nhận nhưng chưa thấy tiền về.
-2. **Chăm sóc khách**, chia theo từng loại việc (xem [bảng các loại việc](#cac-loai-viec-cham-soc)). Cuối phần này là **🔁 Khách cũ lâu chưa gọi**: mỗi ngày 15 khách cũ đã quá 30 ngày chưa phản hồi, khách chi nhiều nhất lên trước. Gọi xong khách nào, danh sách tự đưa khách tiếp theo lên.
-3. **Khách tiềm năng cần liên hệ.**
-
-Cuối trang là **Đã làm hôm nay**: danh sách việc cả nhóm đã làm trong ngày.
+Bấm **▶ Bắt đầu gọi lần lượt**: CRM mở **từng khách một** (tên, sản phẩm, 2–3 lần chăm sóc gần nhất, tin nhắn mẫu). Gọi hoặc nhắn xong, bấm **1 nút kết quả**, CRM **tự sang khách tiếp theo** (“Khách 3 / 24”). **⏭ Để sau** bỏ qua khách đó trong lượt này; **✕** để dừng.
 
 ## Xử lý đơn hàng
 
